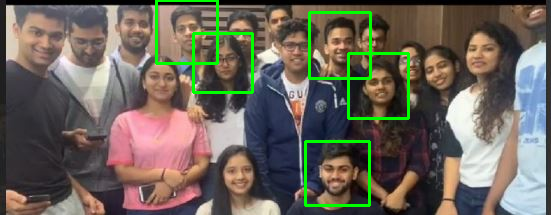
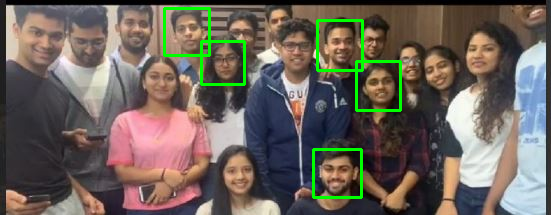
Added MobileNet and ResNet

Changed region(s): [[0.5554, 0.0279, 0.7713, 0.5581], [0.2777, 0.0, 0.4628, 0.4465], [0.5245, 0.6419, 0.6788, 0.9767]]

diff --git a/mobilenet_testing.py b/mobilenet_testing.py
@@ -28,9 +28,6 @@ def add_overlays(frame, faces):
 
 print('Creating networks and loading parameters')
 
-minsize = 20  # minimum size of face
-threshold = [0.6, 0.7, 0.7]  # three steps's threshold
-factor = 0.709  # scale factor
 frame_interval = 3
 
 # video_capture = cv2.VideoCapture(0)
@@ -39,8 +36,8 @@ c = 0
 print('Start Recognition!')
 prevTime = 0
 counter = 0
-face_detection = mobilenet_detection.MobileNetDetection()
-img_list = glob('D:\Documents\GitHub\Face-Detection\images\e*.jpg')
+face_detection = mobilenet_detection.MobileNetDetection(face_crop_margin=16)
+img_list = glob('D:\Documents\GitHub\Face-Detection\images\e*.jp*g')
 for img in img_list:
     frame = cv2.imread(img)
     # while True:

diff --git a/mtcnn_testing.py b/mtcnn_testing.py
@@ -23,7 +23,7 @@ with tf.Graph().as_default():
         threshold = [0.6, 0.7, 0.7]  # three steps's threshold
         factor = 0.709  # scale factor
         frame_interval = 3
-        img_list = glob('D:\Documents\GitHub\Face-Detection\images\e*.jpg')
+        img_list = glob('D:\Documents\GitHub\Face-Detection\images\e*.jp*g')
         
         # video_capture = cv2.VideoCapture(0)
         c = 0
